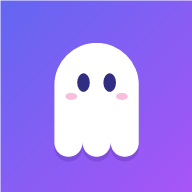
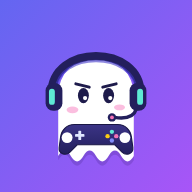
아이콘을 헤드셋 끼고 게임하는 유령으로 교체
- icons/_icon.svg: 아이콘 원본 (헤드셋, 마이크, 게임패드)
- 180/192/512 PNG와 apple-touch-icon.png 다시 생성
- 아이콘 주소 ?v=3, 서비스 워커 캐시 hub-v3

Changed region(s): [[0.2188, 0.2188, 0.7812, 0.875], [0.0, 0.0, 1.0, 1.0]]

diff --git a/index.html b/index.html
@@ -14,9 +14,9 @@
 <meta name="mobile-web-app-capable" content="yes">
 <meta name="apple-mobile-web-app-status-bar-style" content="default">
 <meta name="apple-mobile-web-app-title" content="도구 모음">
-<link rel="apple-touch-icon" href="icons/icon-180.png?v=2">
-<link rel="icon" type="image/png" sizes="192x192" href="icons/icon-192.png?v=2">
-<link rel="manifest" href="manifest.webmanifest?v=2">
+<link rel="apple-touch-icon" href="icons/icon-180.png?v=3">
+<link rel="icon" type="image/png" sizes="192x192" href="icons/icon-192.png?v=3">
+<link rel="manifest" href="manifest.webmanifest?v=3">
 <style>
   :root {
     --bg: #f2f2f7;
@@ -151,7 +151,7 @@
       </div>
     </div>
     <div class="brand">
-      <img class="logo" src="icons/icon-180.png?v=2" alt="" width="40" height="40">
+      <img class="logo" src="icons/icon-180.png?v=3" alt="" width="40" height="40">
       <h1 id="title">유령의 도구 모음</h1>
     </div>
   </header>

diff --git a/sw.js b/sw.js
@@ -1,6 +1,6 @@
 // Bump this when you change index.html so installed copies pick up the new version
-const CACHE = 'hub-v2';
-const ASSETS = ['./', 'index.html', 'manifest.webmanifest?v=2', 'apps.json', 'icons/icon-180.png?v=2', 'icons/icon-192.png?v=2', 'icons/icon-512.png?v=2'];
+const CACHE = 'hub-v3';
+const ASSETS = ['./', 'index.html', 'manifest.webmanifest?v=3', 'apps.json', 'icons/icon-180.png?v=3', 'icons/icon-192.png?v=3', 'icons/icon-512.png?v=3'];
 
 self.addEventListener('install', (e) => {
   e.waitUntil(caches.open(CACHE).then((c) => c.addAll(ASSETS)).then(() => self.skipWaiting()));
